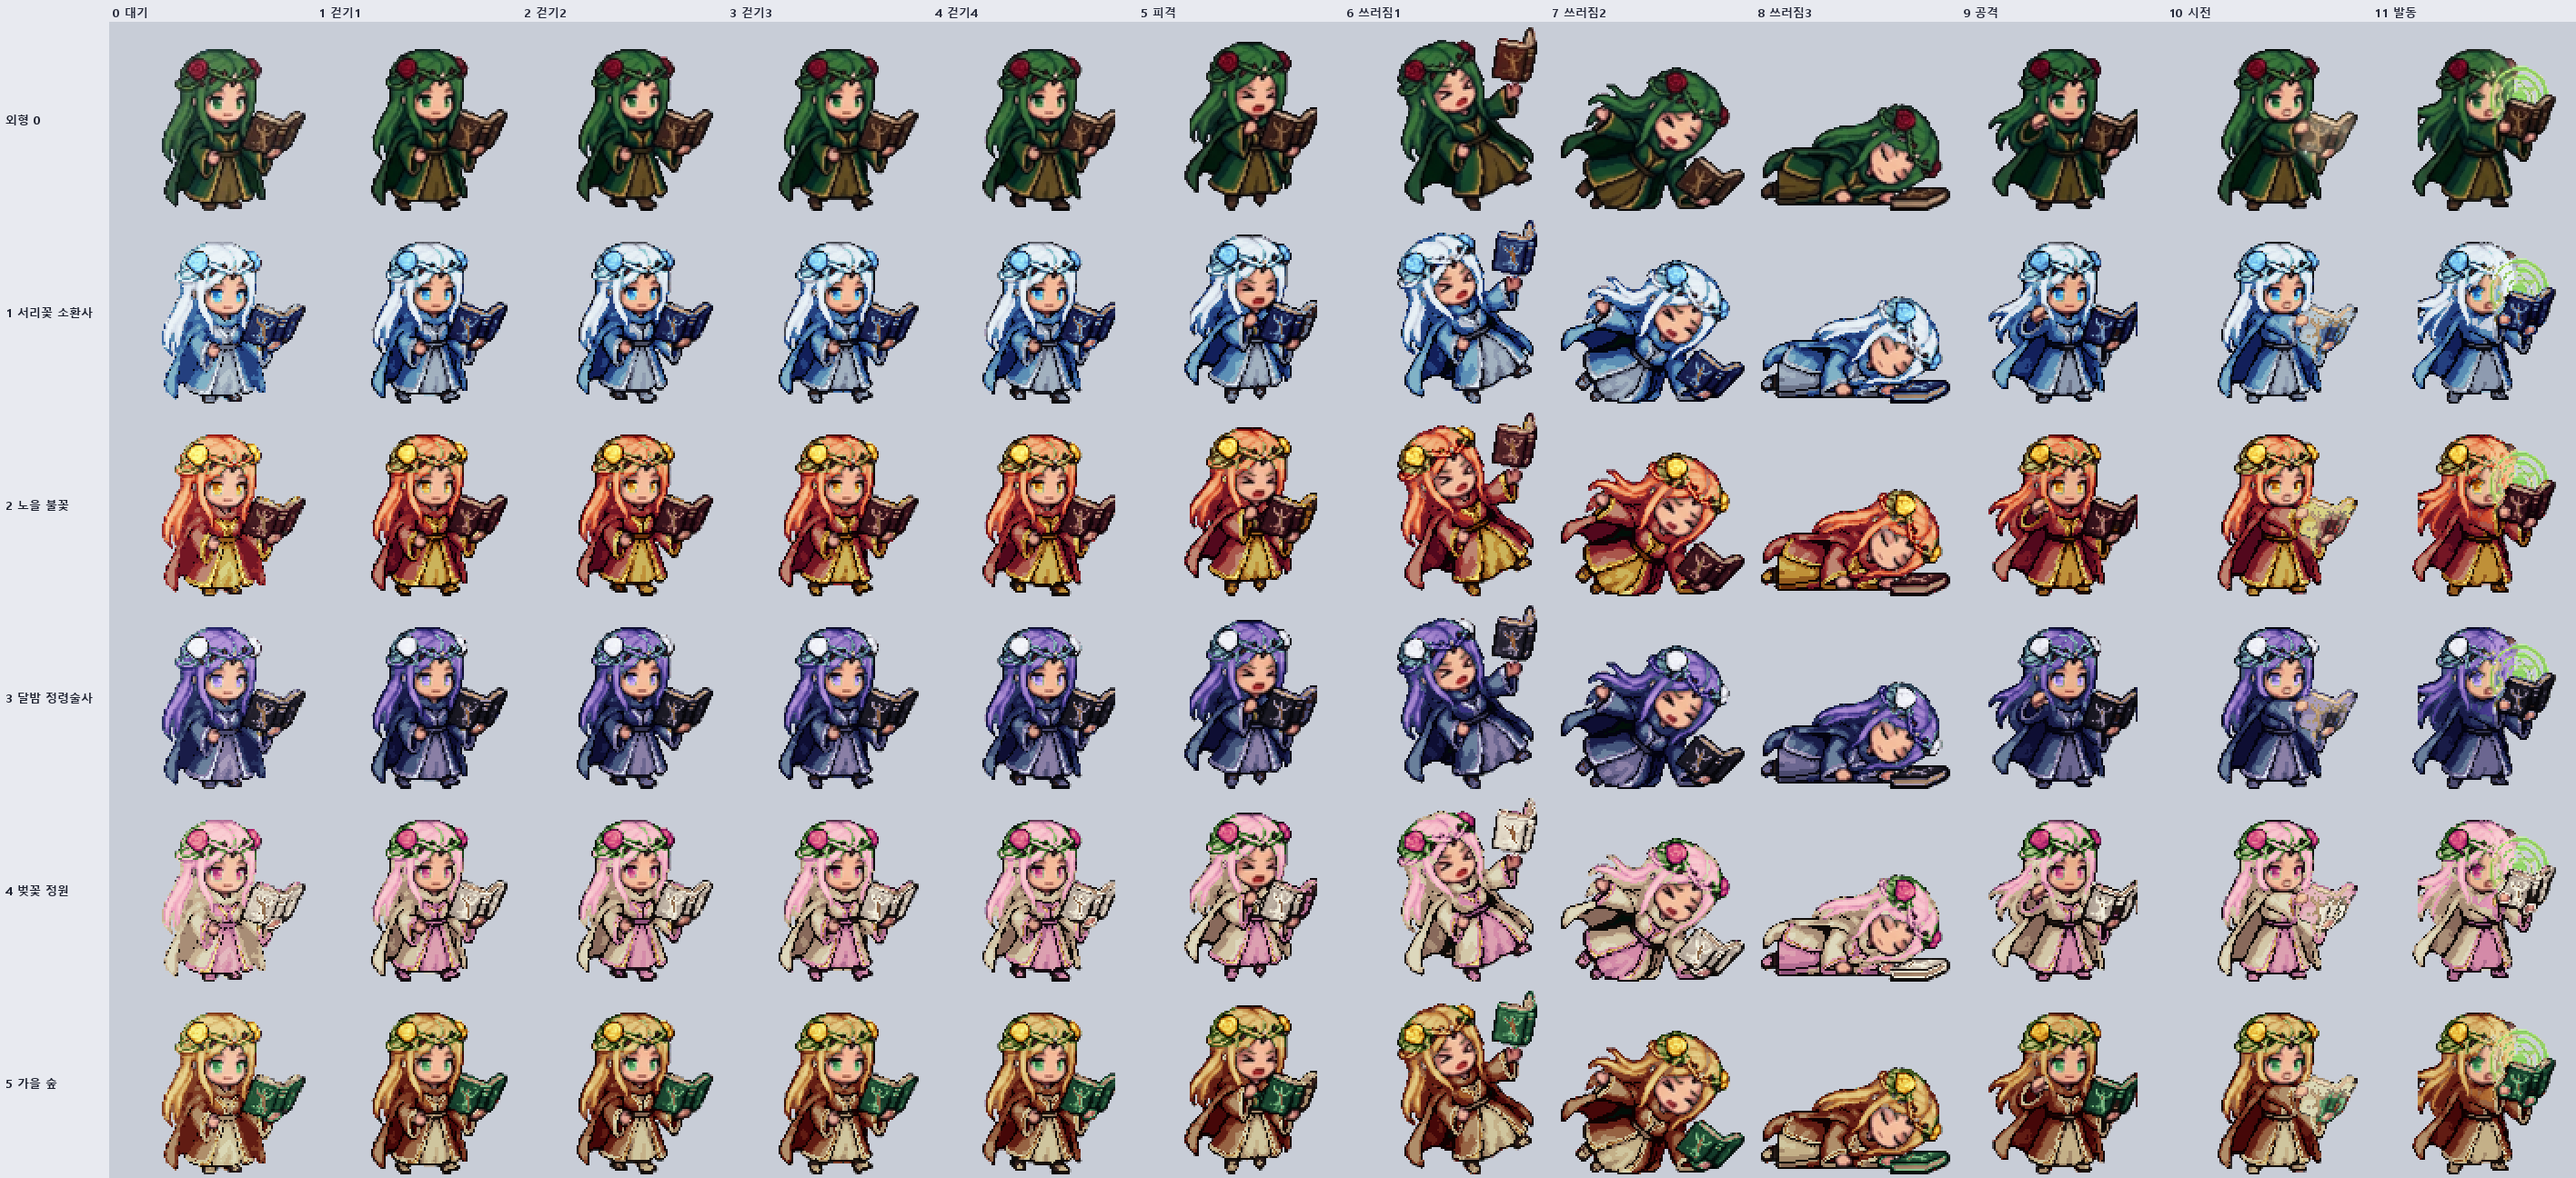
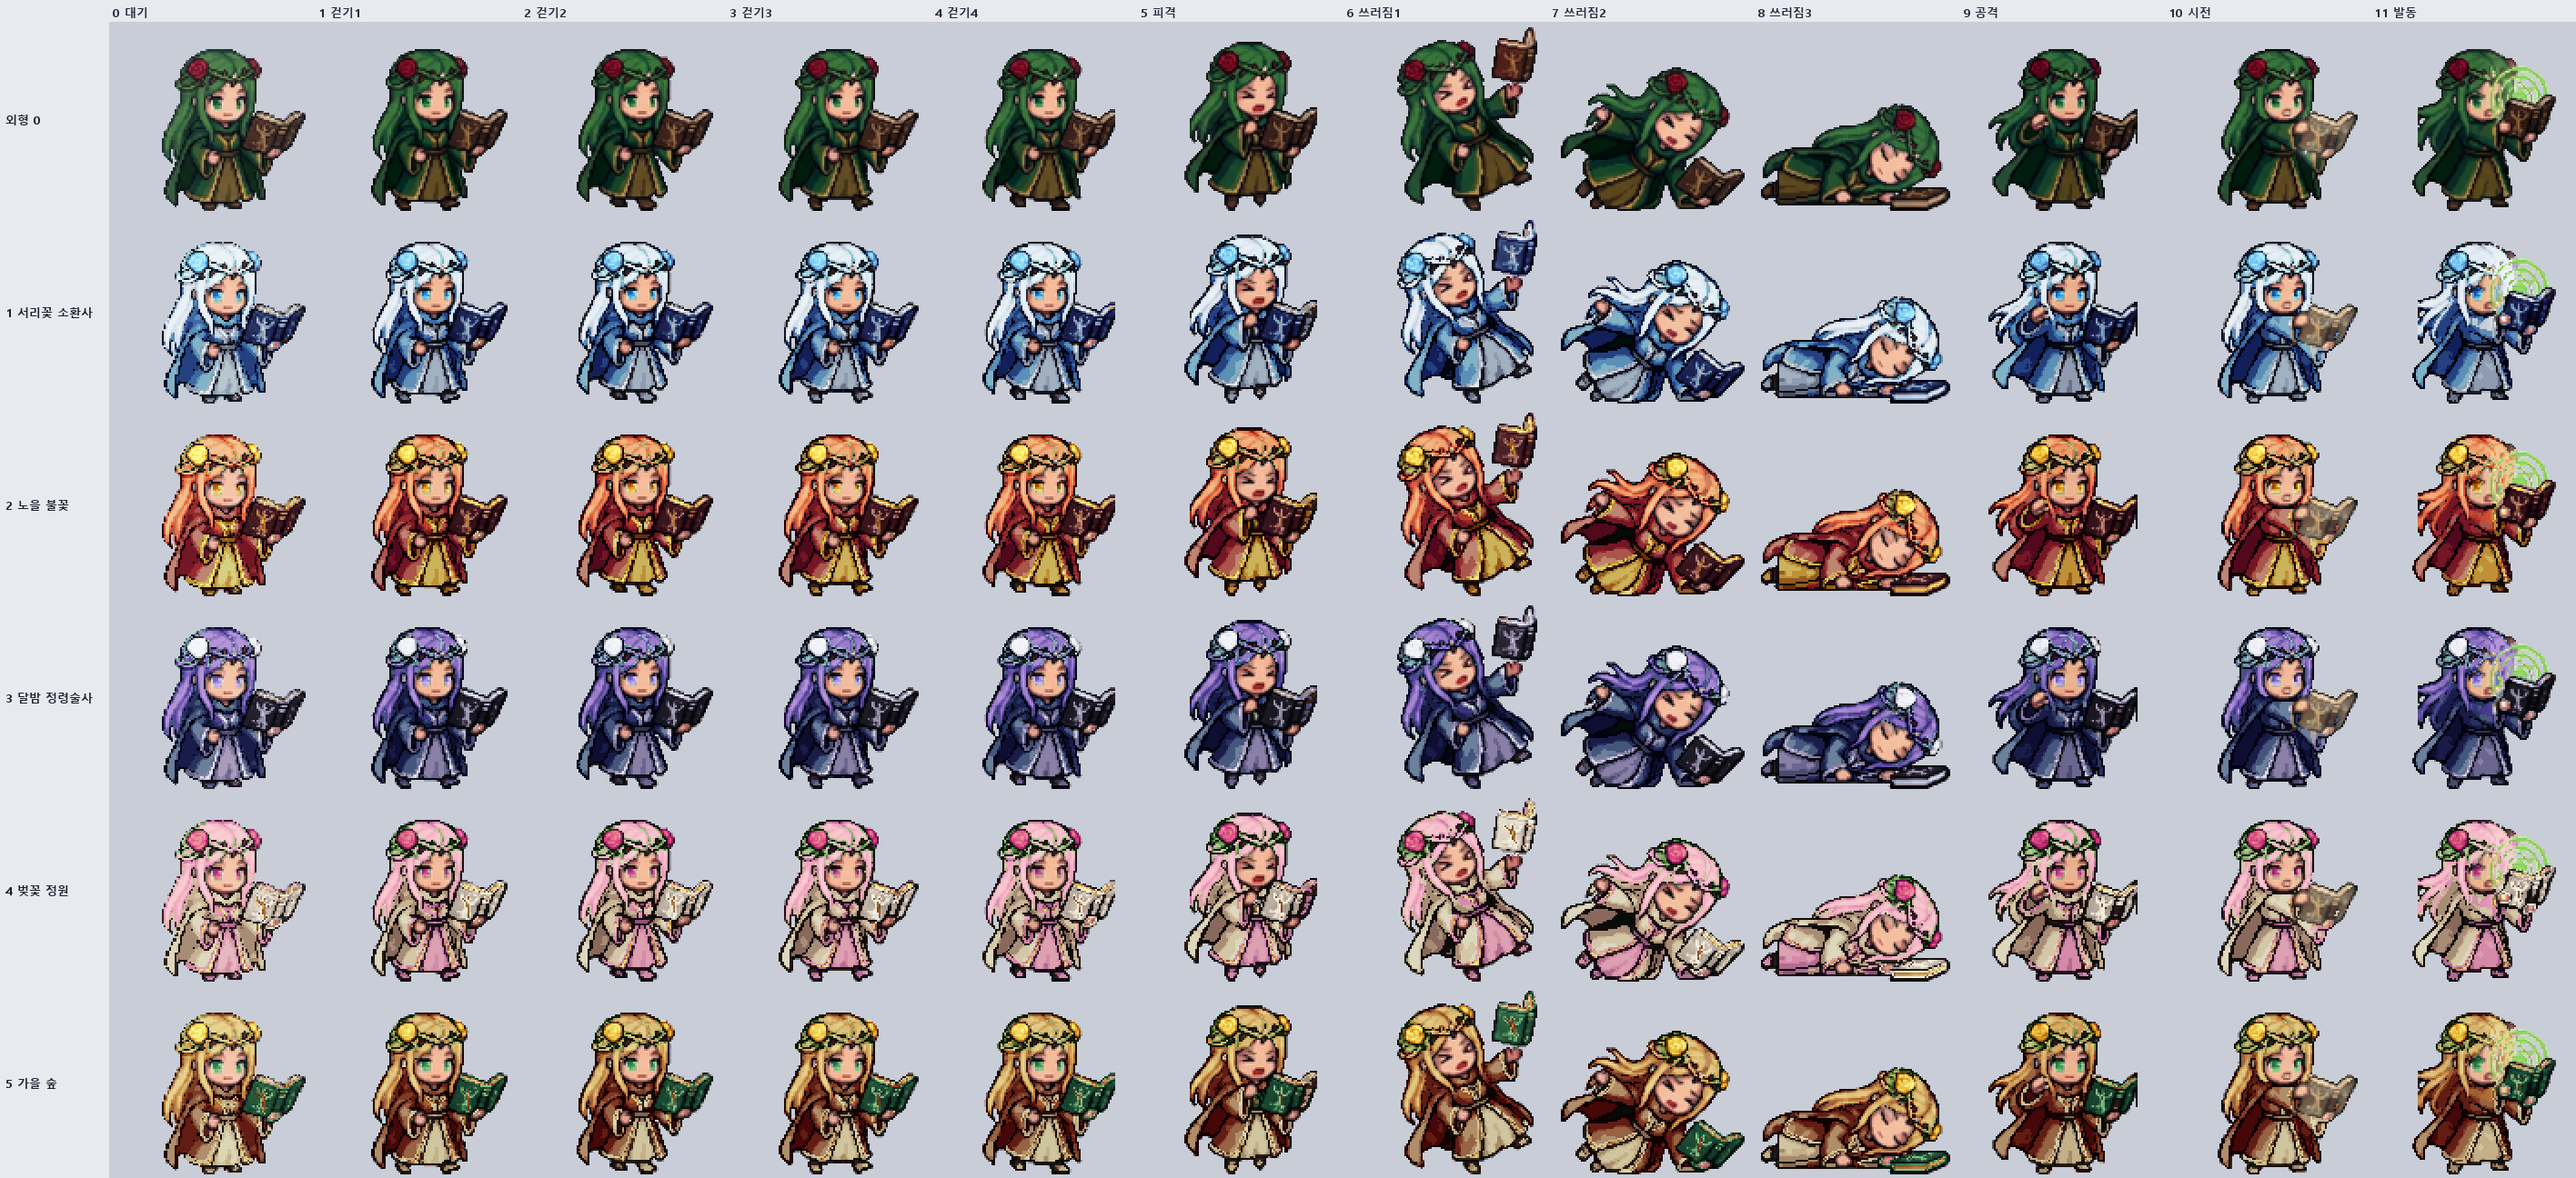
Summoner skins 1-5: unbroken outlines, separate hair and robe, recoloured book runes
Reported problems: skin 4 had broken outlines and hair merged into the robe, and skin 5's book had the wrong colours.

Outlines and hair/robe:
- When deep green was moved from outline to cloth and hair, the dark line pixels went with it: the silhouette, the hair/robe border and the cloth folds.
- On the light cream robe and pink hair those lines were painted light, so the outline broke and hair and robe ran together.
- Line-like dark pixels now take the selout outline colour of their part. They have value under 0.22 and either touch transparency or sit at least 0.15 below their neighbourhood.

Book:
- The cover runes (light brown, hue 18-40) kept their original brown, which showed as peach blotches on the green and navy covers.
- The runes are now their own part, painted with the skin's gold trim colour.

Cast frame:
- That frame's book is only glowing pages, but their shading was taken as cover and dress, which left pink and cream blotches.
- The frame has no cover now, and the pages above the right hand stay as drawn.

diff --git a/tools/summoner_variants_build.py b/tools/summoner_variants_build.py
@@ -23,7 +23,8 @@ SRC = 'assets/sprites/merc/summoner_0.webp'
 CW, CH, N = 113, 106, 12
 NAMES = ['대기', '걷기1', '걷기2', '걷기3', '걷기4', '피격', '쓰러짐1', '쓰러짐2', '쓰러짐3', '공격', '시전', '발동']
 K8 = np.ones((3, 3), int)
-LYING = {6, 7, 8}     # 뒤로 젖히거나 엎드린 칸: 정수리 위치·화관 띠를 얼굴 위쪽으로 잡을 수 없음
+LYING = {6, 7, 8}
+BOOKLESS = {10}       # 시전 칸: 책이 빛나는 종이뿐이라 갈색 표지가 없음 (그늘이 표지로 잡혀 얼룩이 됐음)     # 뒤로 젖히거나 엎드린 칸: 정수리 위치·화관 띠를 얼굴 위쪽으로 잡을 수 없음
 
 
 def hsv_of(rgb):
@@ -113,18 +114,22 @@ def frame_masks(im, f):
     brown = a & ~outline & ~face & ~skin & ((h < 36) | (h >= 330)) & (s > 0.2) & (v < 0.5) & ~flower
     lab, n = ndi.label(brown, structure=K8)
     book = np.zeros_like(brown)
-    if n:
+    if n and f not in BOOKLESS:
         sz = ndi.sum(brown, lab, range(1, n + 1)); i = int(np.argmax(sz))
         if sz[i] >= 40: book = lab == i + 1
     bookarea = ndi.binary_fill_holes(ndi.binary_dilation(book, iterations=2)) if book.any() else book
     bookgold = bookarea & ~book & a & (h >= 25) & (h < 60) & (v > 0.45)
+    # 표지 무늬(룬): 표지 안의 밝은 갈색·금색 (색조 18~40°, 채도 0.28 넘고 밝기 0.38 넘음). 원래 갈색으로 두면 초록·남색 표지 위에서 살구색 얼룩 → 외형 금장식 색으로
+    rune = bookarea & ~book & a & ~outline & (h >= 18) & (h < 40) & (s >= 0.28) & (v >= 0.38)
     # 치마·금장식: 몸통 올리브·금색 (얼굴·책·화관 근처 빼고)
     head_zone = ndi.distance_transform_edt(~(vine | flower)) <= 3
     pages = a & (h >= 20) & (h < 60) & (v > 0.6) & (s < 0.4)   # 빛나는 책 종이 (시전 칸)·책 종이 가장자리 — 그대로
+    if f in BOOKLESS:   # 시전 칸 펼친 책 (오른손 위, x 70~ · y 72 위): 그늘진 종이까지 모두 그대로 (치마로 잡혀 분홍·크림이 되던 것)
+        pages |= a & (xx >= 70) & (yy <= 72) & (h >= 10) & (h < 60) & ~skin
     warm = a & ~outline & ~skin & ~face & ~bookarea & ~flower & ~head_zone & ~glow & ~pages & (h >= 12) & (h < 85) & (s > 0.2) & ~hair & ~robe & ~vine
     trim = warm & (s > 0.45) & (v > 0.5)
     skirt = warm & ~trim
-    parts = dict(hair=hair, vine=vine, robe=robe, skirt=skirt, trim=trim, flower=flower, book=book, eyes=eyes)
+    parts = dict(hair=hair, vine=vine, robe=robe, skirt=skirt, trim=trim, flower=flower, book=book, eyes=eyes, rune=rune)
     # 빈 옷 픽셀 → 둘레에 많은 옷 부위로
     assigned = np.zeros((H, W), bool)
     for m in parts.values(): assigned |= m
@@ -147,6 +152,13 @@ def frame_masks(im, f):
         better = d < dist; dist[better] = d[better]; owner[better] = i
     dskin = ndi.distance_transform_edt(~skin) if skin.any() else np.full((H, W), 99.0)
     lines = {k: line & (owner == i) & (dist <= 2.5) & (dist < dskin) & (~guard if k != 'eyes' else True) for i, k in enumerate(keys)}
+    # 선 모양 어두운 픽셀(밝기 0.22 아래, 투명한 곳과 맞닿았거나 둘레보다 0.15 넘게 어두움) = 실루엣·머리와 로브 경계·옷 주름 선 → 그 부위 윤곽(selout)
+    #   짙은 초록을 옷·머리로 넣으면서 이 선들이 밝은 크림 로브·연분홍 머리에서 밝게 칠해져 윤곽이 끊기고 머리와 로브가 한 덩어리로 보이던 것
+    near_tr = ndi.binary_dilation(im[..., 3] < 40, structure=K8)
+    vmax = ndi.maximum_filter(np.where(a, v, 0.0), size=3)
+    edge_dark = (v < 0.22) & ~guard & (near_tr | (vmax - v >= 0.15))
+    for k in ('hair', 'vine', 'robe', 'skirt'):
+        lines[k] |= parts[k] & edge_dark
     greenish = a & (h >= 70) & (h < 200) & (s > 0.05) & ~glow
     face_px = guard & ~eyes & ~lines['eyes'] & ~skin & (greenish | outline)
     near_eye = ndi.distance_transform_edt(~eyes) <= 2.5 if eyes.any() else np.zeros((H, W), bool)
@@ -171,6 +183,7 @@ def load():
 
 
 def recolor_frame(fr, parts, lines, val, colors, rng):
+    colors = dict(colors, rune=colors['trim'])   # 책 무늬는 외형 금장식 색
     return PP.recolor(fr, parts, val, colors, lines, rng)
 
 
@@ -226,7 +239,7 @@ def detail(path, fi, scale=5):
 def masks_img(path, scale=3):
     sheet, frames, info, _ = load()
     cols = dict(hair=(230, 40, 40), vine=(120, 255, 120), robe=(30, 150, 50), skirt=(240, 190, 0), trim=(255, 120, 0),
-                flower=(230, 0, 230), book=(40, 60, 230), eyes=(0, 200, 220))
+                flower=(230, 0, 230), book=(40, 60, 230), eyes=(0, 200, 220), rune=(255, 255, 0))
     out = []
     for i in range(N):
         fr = frames[i].copy(); fr[..., :3] = fr[..., :3] * 0.3 + 255 * 0.7

diff --git a/docs/summoner-skin-palette.md b/docs/summoner-skin-palette.md
@@ -24,6 +24,11 @@
 
 칸별 점검에서 고친 것: 장미가 손 그늘에도 잡힘 · 누운 칸 머리가 덩굴 색 · 쓰러짐 1칸·공격 칸 왼쪽 머리가 로브 색 · 공격 칸 목 두건이 덩굴 색(옷깃 붉은 그늘이 장미로) · 망토 깊은 그늘이 원래 초록 · 시전 칸 책 종이가 치마 색
 
+2차 점검 (지적: 4번 윤곽 깨짐·머리와 로브 합쳐짐, 5번 책 색):
+- 윤곽: 짙은 초록을 옷·머리로 넣으면서 실루엣·머리와 로브 경계·옷 주름의 어두운 선(밝기 0.22 아래, 투명한 곳과 맞닿거나 둘레보다 0.15 넘게 어두움)까지 밝은 크림·연분홍으로 칠해져 윤곽이 끊기고 머리와 로브가 한 덩어리로 보였음 → 그 선은 그 부위 윤곽(selout)으로
+- 책: 표지 무늬(밝은 갈색 룬, 색조 18~40°)가 원래 갈색으로 남아 초록·남색 표지 위에서 살구색 얼룩 → 외형 금장식 색으로
+- 시전 칸: 책이 빛나는 종이뿐인데 그늘이 표지·치마로 잡혀 분홍·크림 얼룩 → 표지 없음, 오른손 위 종이는 그대로
+
 다시 그리기: `python tools/summoner_palette_preview.py docs/summoner-skin-palette.png` · 부위 나누기 확인: `python tools/summoner_palette_preview.py <경로> masks`
 
 ## 색 입히는 법 (픽셀아트 저장소 기법)
